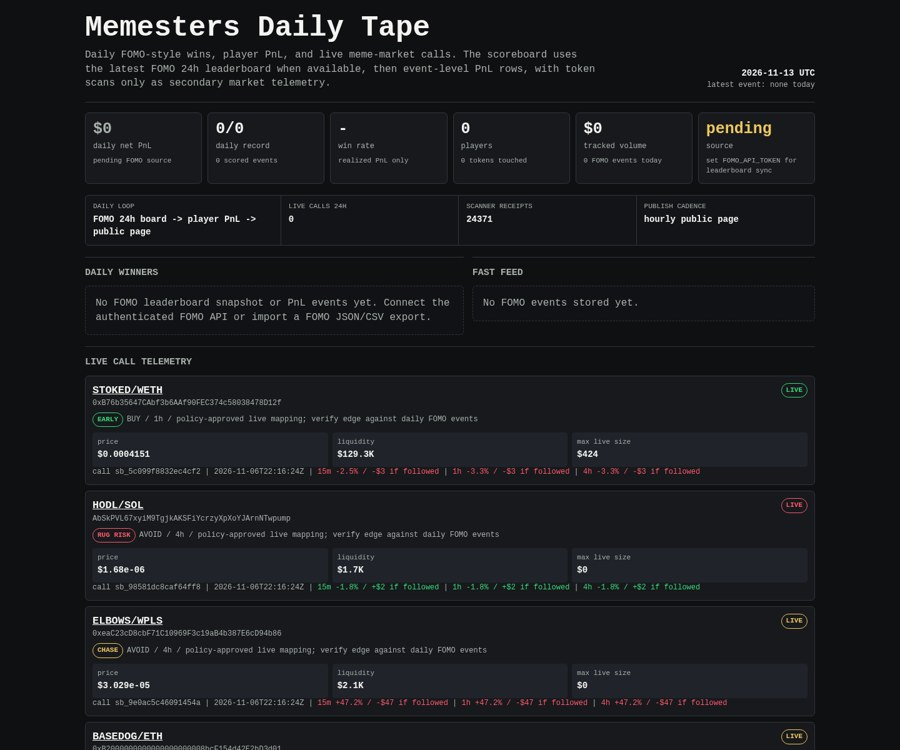
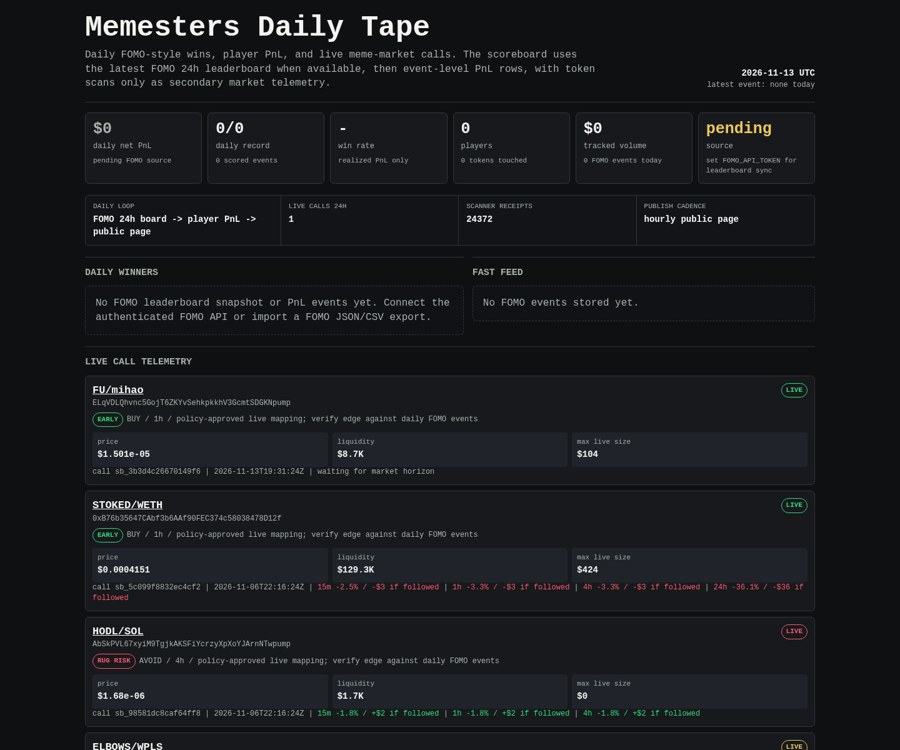
Update Memesters scoreboard

diff --git a/memesters/index.html b/memesters/index.html
@@ -149,8 +149,8 @@
 
     <div class="rail" aria-label="live operating loop">
       <div><span>daily loop</span><b>FOMO 24h board -> player PnL -> public page</b></div>
-      <div><span>live calls 24h</span><b>0</b></div>
-      <div><span>scanner receipts</span><b>24371</b></div>
+      <div><span>live calls 24h</span><b>1</b></div>
+      <div><span>scanner receipts</span><b>24372</b></div>
       <div><span>publish cadence</span><b>hourly public page</b></div>
     </div>
 
@@ -171,6 +171,27 @@
     <article class="receipt">
       <div class="receipt-head">
         <div>
+          <div class="pair"><a href="https://dexscreener.com/solana/2i1mjebwjx47bhf33sg3havyp89xgzsfwhsqhgby6bdg">FU/mihao</a></div>
+          <div class="addr">ELqVDLQhvnc5GojT6ZKYvSehkpkkhV3GcmtSDGKNpump</div>
+          <div class="addr policy-line">
+            <span class="badge early">EARLY</span>
+            <span>BUY / 1h / policy-approved live mapping; verify edge against daily FOMO events</span>
+          </div>
+        </div>
+        <span class="badge early">LIVE</span>
+      </div>
+      <div class="receipt-grid">
+        <div class="kv"><span>price</span><b>$1.501e-05</b></div>
+        <div class="kv"><span>liquidity</span><b>$8.7K</b></div>
+        <div class="kv"><span>max live size</span><b>$104</b></div>
+      </div>
+      <div class="outcomes">call sb_3b3d4c26670149f6 | 2026-11-13T19:31:24Z | waiting for market horizon</div>
+    </article>
+    
+
+    <article class="receipt">
+      <div class="receipt-head">
+        <div>
           <div class="pair"><a href="https://dexscreener.com/robinhood/0x8c38c32bf13f319a82c185ba10041f7fc64ee667">STOKED/WETH</a></div>
           <div class="addr">0xB76b35647CAbf3b6AAf90FEC374c58038478D12f</div>
           <div class="addr policy-line">
@@ -185,7 +206,7 @@
         <div class="kv"><span>liquidity</span><b>$129.3K</b></div>
         <div class="kv"><span>max live size</span><b>$424</b></div>
       </div>
-      <div class="outcomes">call sb_5c099f8832ec4cf2 | 2026-11-06T22:16:24Z | <span class="negative">15m -2.5% / -$3 if followed</span> | <span class="negative">1h -3.3% / -$3 if followed</span> | <span class="negative">4h -3.3% / -$3 if followed</span></div>
+      <div class="outcomes">call sb_5c099f8832ec4cf2 | 2026-11-06T22:16:24Z | <span class="negative">15m -2.5% / -$3 if followed</span> | <span class="negative">1h -3.3% / -$3 if followed</span> | <span class="negative">4h -3.3% / -$3 if followed</span> | <span class="negative">24h -36.1% / -$36 if followed</span></div>
     </article>
     
 
@@ -248,7 +269,7 @@
         <div class="kv"><span>liquidity</span><b>$17.6K</b></div>
         <div class="kv"><span>max live size</span><b>$0</b></div>
       </div>
-      <div class="outcomes">call sb_cdad63e2cc124788 | 2026-11-06T22:16:24Z | <span class="positive">15m -16.6% / +$17 if followed</span> | <span class="positive">1h -16.6% / +$17 if followed</span> | <span class="positive">4h -16.6% / +$17 if followed</span></div>
+      <div class="outcomes">call sb_cdad63e2cc124788 | 2026-11-06T22:16:24Z | <span class="positive">15m -16.6% / +$17 if followed</span> | <span class="positive">1h -16.6% / +$17 if followed</span> | <span class="positive">4h -16.6% / +$17 if followed</span> | <span class="positive">24h -37.7% / +$38 if followed</span></div>
     </article>
     
 
@@ -269,7 +290,7 @@
         <div class="kv"><span>liquidity</span><b>$130.3K</b></div>
         <div class="kv"><span>max live size</span><b>$0</b></div>
       </div>
-      <div class="outcomes">call sb_477cc9c8bb7b46a4 | 2026-11-06T22:16:24Z | <span class="positive">15m -29.4% / +$29 if followed</span> | <span class="positive">1h -30.5% / +$30 if followed</span> | <span class="positive">4h -30.5% / +$30 if followed</span></div>
+      <div class="outcomes">call sb_477cc9c8bb7b46a4 | 2026-11-06T22:16:24Z | <span class="positive">15m -29.4% / +$29 if followed</span> | <span class="positive">1h -30.5% / +$30 if followed</span> | <span class="positive">4h -30.5% / +$30 if followed</span> | <span class="positive">24h -94.7% / +$95 if followed</span></div>
     </article>
     
 
@@ -290,7 +311,7 @@
         <div class="kv"><span>liquidity</span><b>$3.0K</b></div>
         <div class="kv"><span>max live size</span><b>$0</b></div>
       </div>
-      <div class="outcomes">call sb_53828f31c4204c3c | 2026-11-06T22:16:24Z | <span class="positive">15m -29.8% / +$30 if followed</span> | <span class="positive">1h -29.8% / +$30 if followed</span> | <span class="positive">4h -29.8% / +$30 if followed</span></div>
+      <div class="outcomes">call sb_53828f31c4204c3c | 2026-11-06T22:16:24Z | <span class="positive">15m -29.8% / +$30 if followed</span> | <span class="positive">1h -29.8% / +$30 if followed</span> | <span class="positive">4h -29.8% / +$30 if followed</span> | <span class="positive">24h -48.0% / +$48 if followed</span></div>
     </article>
     
 
@@ -332,7 +353,7 @@
         <div class="kv"><span>liquidity</span><b>$16.1K</b></div>
         <div class="kv"><span>max live size</span><b>$0</b></div>
       </div>
-      <div class="outcomes">call sb_073cd6945d494d07 | 2026-11-06T22:16:24Z | <span class="negative">15m +1.4% / -$1 if followed</span> | <span class="negative">1h +1.4% / -$1 if followed</span> | <span class="negative">4h +1.4% / -$1 if followed</span></div>
+      <div class="outcomes">call sb_073cd6945d494d07 | 2026-11-06T22:16:24Z | <span class="negative">15m +1.4% / -$1 if followed</span> | <span class="negative">1h +1.4% / -$1 if followed</span> | <span class="negative">4h +1.4% / -$1 if followed</span> | <span class="negative">24h +20.6% / -$21 if followed</span></div>
     </article>
     
 
@@ -353,28 +374,7 @@
         <div class="kv"><span>liquidity</span><b>$30.2K</b></div>
         <div class="kv"><span>max live size</span><b>$0</b></div>
       </div>
-      <div class="outcomes">call sb_f9534cc548c64011 | 2026-11-06T21:46:17Z | <span class="positive">15m -51.2% / +$51 if followed</span> | <span class="positive">1h -85.4% / +$85 if followed</span> | <span class="positive">4h -85.4% / +$85 if followed</span></div>
-    </article>
-    
-
-    <article class="receipt">
-      <div class="receipt-head">
-        <div>
-          <div class="pair"><a href="https://dexscreener.com/ethereum/0x8a241ab158748777f43537f6224f15a22aa9da78a129fca897c42b4e62b521cc">Rocco/ETH</a></div>
-          <div class="addr">0x66cFa0652b19c9b9568240623A3384EB2E057431</div>
-          <div class="addr policy-line">
-            <span class="badge chase">CHASE</span>
-            <span>AVOID / 4h / policy-approved live mapping; verify edge against daily FOMO events</span>
-          </div>
-        </div>
-        <span class="badge chase">LIVE</span>
-      </div>
-      <div class="receipt-grid">
-        <div class="kv"><span>price</span><b>$0.006408</b></div>
-        <div class="kv"><span>liquidity</span><b>$236.9K</b></div>
-        <div class="kv"><span>max live size</span><b>$0</b></div>
-      </div>
-      <div class="outcomes">call sb_2b07e5708a354efb | 2026-11-06T21:46:17Z | <span class="positive">15m -42.8% / +$43 if followed</span> | <span class="positive">1h -100.0% / +$100 if followed</span> | <span class="positive">4h -100.0% / +$100 if followed</span></div>
+      <div class="outcomes">call sb_f9534cc548c64011 | 2026-11-06T21:46:17Z | <span class="positive">15m -51.2% / +$51 if followed</span> | <span class="positive">1h -85.4% / +$85 if followed</span> | <span class="positive">4h -85.4% / +$85 if followed</span> | <span class="positive">24h -92.2% / +$92 if followed</span></div>
     </article>
     
     </section>
